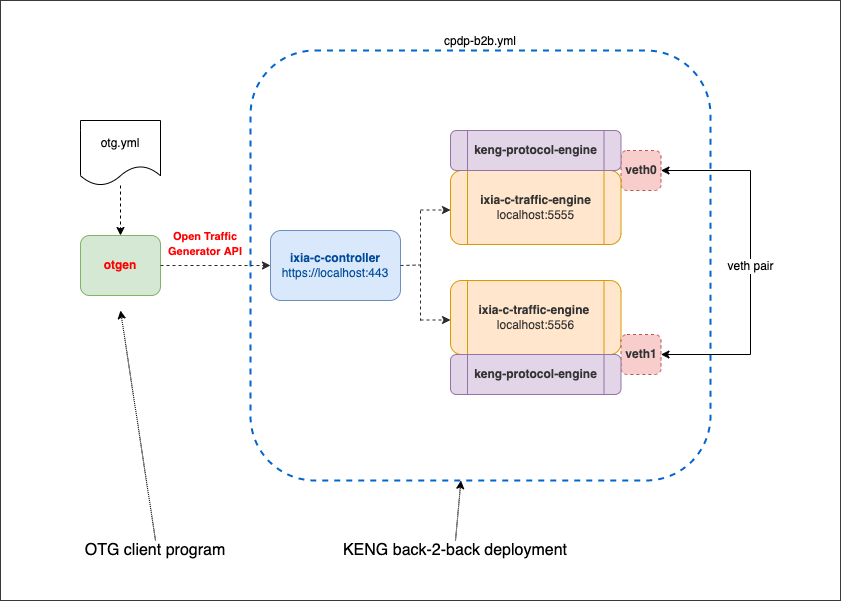
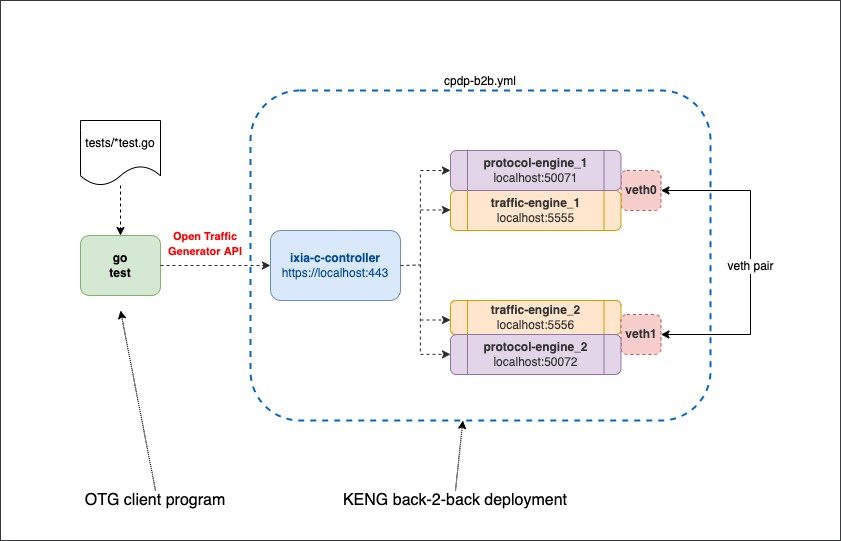
clone repo to run the lab

diff --git a/docker-compose/cpdp-b2b/README.md b/docker-compose/cpdp-b2b/README.md
@@ -21,13 +21,6 @@ sudo curl -L "https://github.com/docker/compose/releases/download/1.29.2/docker-
 sudo chmod +x /usr/local/bin/docker-compose
 ```
 
-2. Download `connect_containers_veth.sh`
-
-```Shell
-wget "https://raw.githubusercontent.com/open-traffic-generator/otg-examples/main/utils/connect_containers_veth.sh" 
-chmod +x connect_containers_veth.sh
-```
-
 3. Install `otgen`
 
 ```Shell
@@ -36,84 +29,40 @@ sudo mv otgen /usr/local/bin/otgen
 sudo chmod +x /usr/local/bin/otgen
 ```
 
+3. Clone this repository
+
+```Shell
+git clone --branch cpdp-b2b https://github.com/open-traffic-generator/otg-examples.git
+```
+
 ## Deploy Ixia-c lab
 
-1. Create YAML file for Docker Compose
+1. Launch the deployment
 
 ```Shell
-cat > cpdp-b2b.yml << EOF
-services:
-  controller:
-    image: ghcr.io/open-traffic-generator/licensed/ixia-c-controller:0.0.1-3002
-    command: --accept-eula --http-port 443
-    network_mode: "host"
-    restart: always
-  traffic_engine_1:
-    image: ixiacom/ixia-c-traffic-engine:1.4.1.29
-    restart: always
-    privileged: true
-    ports:
-      - "5555:5555"
-    environment:
-    - OPT_LISTEN_PORT=5555
-    - ARG_IFACE_LIST=virtual@af_packet,veth0
-    - OPT_NO_HUGEPAGES=Yes
-    - OPT_NO_PINNING=Yes
-    - WAIT_FOR_IFACE=Yes
-  traffic_engine_2:
-    image: ixiacom/ixia-c-traffic-engine:1.4.1.29
-    restart: always
-    privileged: true
-    ports:
-      - "5556:5556"
-    environment:
-    - OPT_LISTEN_PORT=5556
-    - ARG_IFACE_LIST=virtual@af_packet,veth1
-    - OPT_NO_HUGEPAGES=Yes
-    - OPT_NO_PINNING=Yes
-    - WAIT_FOR_IFACE=Yes
-  protocol_engine_1:
-    image: ghcr.io/open-traffic-generator/licensed/ixia-c-protocol-engine:1.00.0.205
-    restart: always
-    privileged: true
-    network_mode: service:traffic_engine_1
-    environment:
-    - INTF_LIST=veth0
-  protocol_engine_2:
-    image: ghcr.io/open-traffic-generator/licensed/ixia-c-protocol-engine:1.00.0.205
-    restart: always
-    privileged: true
-    network_mode: service:traffic_engine_2
-    environment:
-    - INTF_LIST=veth1
-EOF
-```
-
-2. Launch the deployment
-
-```Shell
+cd otg-examples/docker-compose/cpdp-b2b
 sudo docker-compose -f cpdp-b2b.yml up -d 
 sudo docker ps
-````
-
-3. Make sure you have all five containers running. The result should look like this
-  
-```Shell
-CONTAINER ID   IMAGE                                                                       COMMAND                  CREATED              STATUS              PORTS                                                                                      NAMES
-cae49d871bc9   ghcr.io/open-traffic-generator/licensed/ixia-c-protocol-engine:1.00.0.205   "/docker_im/opt/Ixia…"   4 seconds ago        Up 3 seconds                                                                                                   cpdp-b2b_protocol_engine_1_1
-82e89b618e66   ghcr.io/open-traffic-generator/licensed/ixia-c-protocol-engine:1.00.0.205   "/docker_im/opt/Ixia…"   4 seconds ago        Up 3 seconds                                                                                                   cpdp-b2b_protocol_engine_2_1
-7ed141bf8f41   ixiacom/ixia-c-traffic-engine:1.4.1.29                                      "./entrypoint.sh"        5 seconds ago        Up 3 seconds        0.0.0.0:5556->5556/tcp, :::5556->5556/tcp, 0.0.0.0:50072->50071/tcp, :::50072->50071/tcp   cpdp-b2b_traffic_engine_2_1
-ee375ede5bbe   ixiacom/ixia-c-traffic-engine:1.4.1.29                                      "./entrypoint.sh"        5 seconds ago        Up 3 seconds        0.0.0.0:5555->5555/tcp, :::5555->5555/tcp, 0.0.0.0:50071->50071/tcp, :::50071->50071/tcp   cpdp-b2b_traffic_engine_1_1
-0e3436e30680   ghcr.io/open-traffic-generator/licensed/ixia-c-controller:0.0.1-3002        "./bin/controller --…"   About a minute ago   Up About a minute                                                                                              cpdp-b2b_controller_1
 ```
 
-4. Interconnect traffic engine containers via a veth pair
+2. Make sure you have all five containers running. The result should look like this
+  
+```Shell
+CONTAINER ID   IMAGE                                                                       COMMAND                  CREATED          STATUS         PORTS                                                                                      NAMES
+4a9d84784c46   ghcr.io/open-traffic-generator/licensed/ixia-c-protocol-engine:1.00.0.205   "/docker_im/opt/Ixia…"   8 seconds ago    Up 7 seconds                                                                                              cpdp-b2b_protocol_engine_1_1
+13119efaea26   ghcr.io/open-traffic-generator/licensed/ixia-c-protocol-engine:1.00.0.205   "/docker_im/opt/Ixia…"   8 seconds ago    Up 7 seconds                                                                                              cpdp-b2b_protocol_engine_2_1
+0bf9781a133a   ixiacom/ixia-c-traffic-engine:1.4.1.29                                      "./entrypoint.sh"        11 seconds ago   Up 8 seconds   0.0.0.0:5556->5556/tcp, :::5556->5556/tcp, 0.0.0.0:50072->50071/tcp, :::50072->50071/tcp   cpdp-b2b_traffic_engine_2_1
+1604ef2956ab   ixiacom/ixia-c-traffic-engine:1.4.1.29                                      "./entrypoint.sh"        11 seconds ago   Up 8 seconds   0.0.0.0:5555->5555/tcp, :::5555->5555/tcp, 0.0.0.0:50071->50071/tcp, :::50071->50071/tcp   cpdp-b2b_traffic_engine_1_1
+45798f6d3c59   ghcr.io/open-traffic-generator/licensed/ixia-c-controller:0.0.1-3002        "./bin/controller --…"   11 seconds ago   Up 9 seconds                                                                                              cpdp-b2b_controller_1
+```
+
+3. Interconnect traffic engine containers via a veth pair
 
 ```Shell
-sudo ./connect_containers_veth.sh cpdp-b2b_traffic_engine_1_1 cpdp-b2b_traffic_engine_2_1 veth0 veth1
+sudo ../../utils/connect_containers_veth.sh cpdp-b2b_traffic_engine_1_1 cpdp-b2b_traffic_engine_2_1 veth0 veth1
 ````
 
-5. Check traffic and protocol engine logs to see if they picked up veth interfaces
+4. Check traffic and protocol engine logs to see if they picked up veth interfaces
 
 ```Shell
 sudo docker logs cpdp-b2b_traffic_engine_1_1
@@ -126,7 +75,8 @@ sudo docker logs cpdp-b2b_protocol_engine_2_1
 
 ```Shell
 cd tests
-go test -run TestBGPRouteInstall
+go test -run TestIPv4BGPRouteInstall
+cd ..
 ```
 
 ## Destroy the lab
